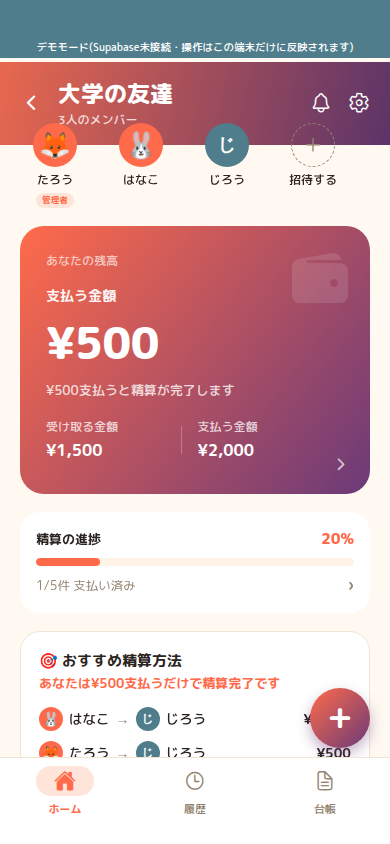
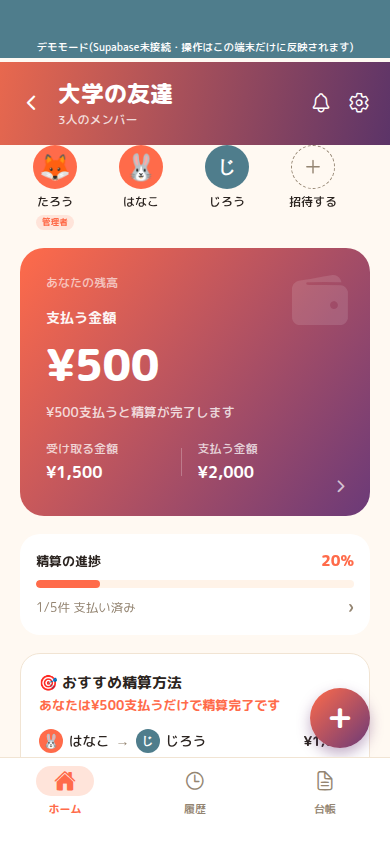
kashikari: メンバーアイコンのヘッダー重ね表示を撤回、位置を元に戻す
「アイコン・名前・管理者バッジの位置まで動いてしまった。直したいのは
下部分の角丸の見え方だけで、位置は一切変えないでほしい」という指摘
への対応。スキーマ変更なし。

前回、メンバー一覧のScrollViewにmarginTop: -22を与えてアイコンを
ヘッダーに重ねる変更を入れたが、これを完全に撤回した。

- ScrollViewのstyle={styles.memberStripWrap}を削除
- memberStripWrapスタイル定義自体を削除

これにより、ヘッダーの高さ・グラデーション部分の高さ・メンバー
アイコン/名前/管理者バッジの位置・メンバー欄全体の上下位置・
ヘッダー内のタイトル/戻る/通知/設定アイコンの位置は、すべて直前の
「下部角丸をやめて一体化させる」修正時点の状態(角丸・影なし、
隙間なしで隣接)に戻っている。

GroupScreen.tsx / DemoGroupScreen.tsx両方に適用。tsc --noEmit /
expo export --platform web(通常+デモモード)とも問題なし。

Claude-Session: https://claude.ai/code/session_016w6H5fipiVvbtfX7sgu87W

diff --git a/personal-side-projects/kashikari/mobile/src/screens/GroupScreen.tsx b/personal-side-projects/kashikari/mobile/src/screens/GroupScreen.tsx
@@ -313,19 +313,10 @@ export default function GroupScreen({ group, meId, justCreated, onBack, onLeave,
       {/* 「メンバーが増えた場合は横スクロールできるようにする」という
           指摘を受け、折り返し(flexWrap)から横スクロール(ScrollView)に
           変更した。人数が少ない間は画面内に収まるため見た目は変わらない。
-          「ヘッダーとメンバー一覧を単純に上下に並べるのではなく、メンバー
-          アイコンがヘッダーに食い込んでいるレイアウトにする」という指摘
-          を受け、ScrollView自体(外側のstyle)に負のmarginTopを与えて
-          上にずらし、アイコンの上半分がグラデーション領域に重なるように
-          した(この要素は見た目のJSX順で後に来るため、重なった部分では
-          手前に描画される。角丸・影は前回すでに外してあるので、重なり
-          部分に丸みの切れ込みや白い隙間は出ない)。 */}
-      <ScrollView
-        horizontal
-        showsHorizontalScrollIndicator={false}
-        style={styles.memberStripWrap}
-        contentContainerStyle={styles.memberStrip}
-      >
+          (一度アイコンをヘッダーに重ねるよう上にずらしたが、「アイコン・
+          名前・バッジの位置は一切動かさないでほしい、直したいのは下部分の
+          角丸の見え方だけ」という指摘を受けて元の位置に戻した。) */}
+      <ScrollView horizontal showsHorizontalScrollIndicator={false} contentContainerStyle={styles.memberStrip}>
         {members.map((m) => {
           const isMe = m.id === meId;
           const isAdmin = m.id === group.created_by;
@@ -548,9 +539,6 @@ const styles = StyleSheet.create({
   // 「グループ名をもう少し大きくする」という指摘を受けてfontSizeを上げた。
   title: { ...fonts.display, fontSize: 23, color: '#fff' },
   memberCount: { ...fonts.bodyMedium, fontSize: 12, color: 'rgba(255,255,255,0.8)', marginTop: 1 },
-  // アイコン(lgサイズ=44px)の上半分がヘッダーに重なるよう、高さの半分
-  // だけ上にずらす。
-  memberStripWrap: { marginTop: -22 },
   memberStrip: { flexDirection: 'row', gap: 16, marginBottom: 18, paddingRight: 4 },
   memberSlot: { alignItems: 'center', width: 70, gap: 4 },
   memberSlotName: { ...fonts.bodyMedium, fontSize: 12, color: colors.ink, maxWidth: 68 },

diff --git a/personal-side-projects/kashikari/mobile/src/demo/DemoGroupScreen.tsx b/personal-side-projects/kashikari/mobile/src/demo/DemoGroupScreen.tsx
@@ -303,14 +303,7 @@ export default function DemoGroupScreen({ onBack, onOpenSettings }: { onBack: ()
         </LinearGradient>
       </View>
 
-      {/* 「メンバーアイコンがヘッダーに食い込んでいるレイアウトにする」
-          という指摘への対応(詳細はGroupScreen.tsxの同じ箇所参照)。 */}
-      <ScrollView
-        horizontal
-        showsHorizontalScrollIndicator={false}
-        style={styles.memberStripWrap}
-        contentContainerStyle={styles.memberStrip}
-      >
+      <ScrollView horizontal showsHorizontalScrollIndicator={false} contentContainerStyle={styles.memberStrip}>
         {members.map((m) => {
           const isMe = m.id === meId;
           const isAdmin = m.id === group.created_by;
@@ -553,7 +546,6 @@ const styles = StyleSheet.create({
   titleCol: { flex: 1, marginHorizontal: 16 },
   title: { ...fonts.display, fontSize: 23, color: '#fff' },
   memberCount: { ...fonts.bodyMedium, fontSize: 12, color: 'rgba(255,255,255,0.8)', marginTop: 1 },
-  memberStripWrap: { marginTop: -22 },
   memberStrip: { flexDirection: 'row', gap: 16, marginBottom: 18, paddingRight: 4 },
   memberSlot: { alignItems: 'center', width: 70, gap: 4 },
   memberSlotName: { ...fonts.bodyMedium, fontSize: 12, color: colors.ink, maxWidth: 68 },
